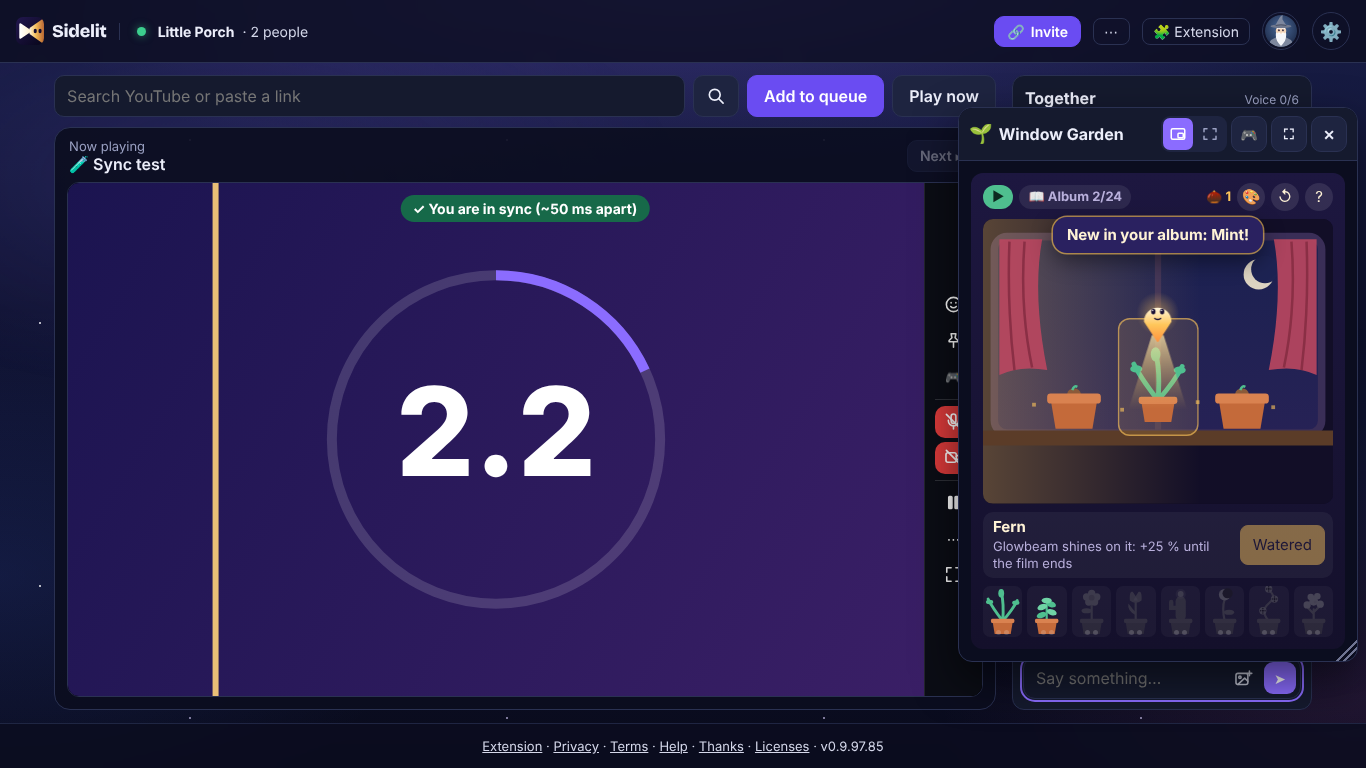
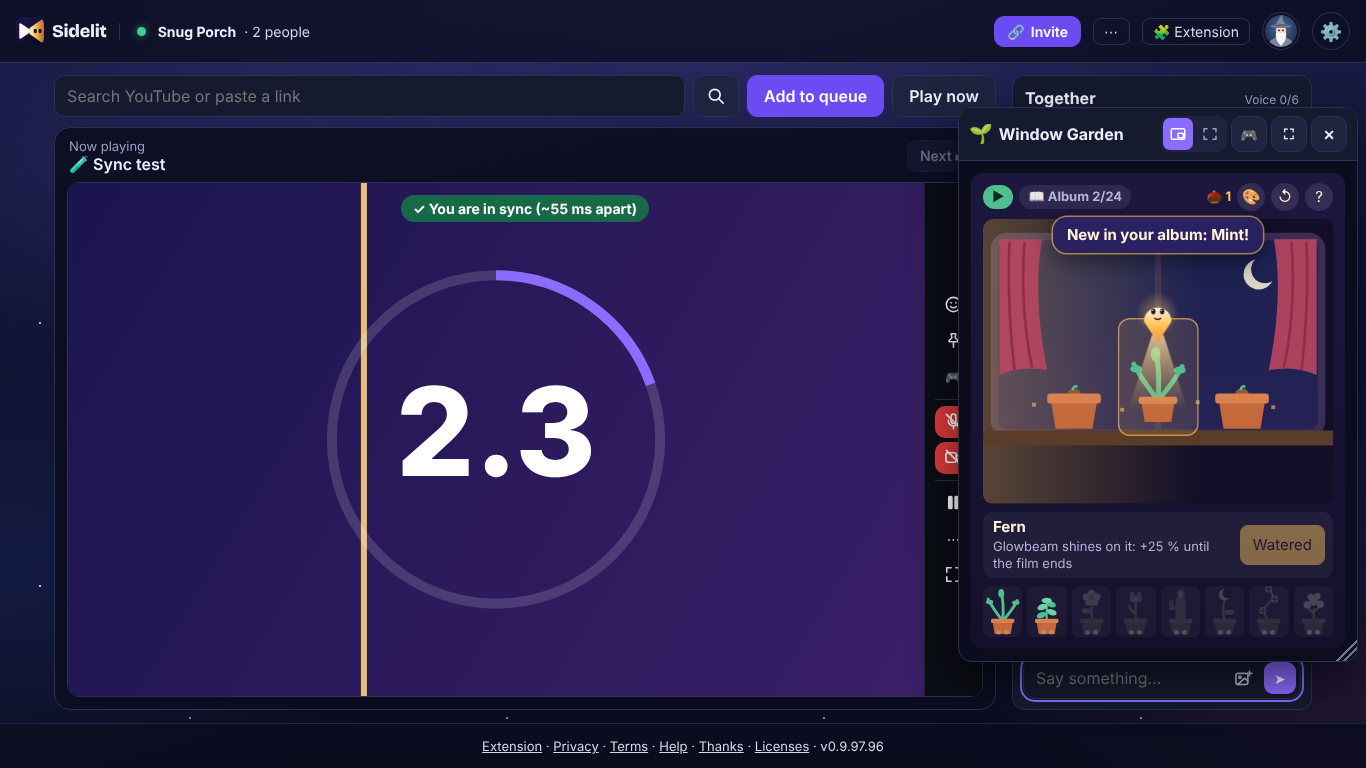
Layout audit: phones always full-screen games, stream preview clear of the player's bar, side games and dialogs grow on big screens (LAYOUT1, 0.9.97.96)
Claude-Session: https://claude.ai/code/session_015Fyri2WkmxwEfieZ1jto4L

diff --git a/apps/web/index.html b/apps/web/index.html
@@ -47,7 +47,7 @@
         <a href="https://github.com/uBlockOrigin/uBOL-home" target="_blank" rel="noopener">uBlock Origin Lite</a>
         <span data-i18n="adblockNote"></span
       ></span>
-      <span class="footer-links"><a href="/extension.html" target="_blank" rel="noopener" data-i18n="extensionNav"></a> · <a href="/privacy.html" target="_blank" rel="noopener" data-i18n="privacy" data-privacy-link></a> · <a href="/terms.html" target="_blank" rel="noopener" data-i18n="terms" data-terms-link></a> · <a href="/help.html" target="_blank" rel="noopener" data-i18n="help" data-help-link></a> · <a href="/thanks.html" target="_blank" rel="noopener" data-i18n="thanks" data-thanks-link></a> · <a href="/third-party-notices.txt" target="_blank" rel="noopener" data-i18n="licenses"></a> · <span class="footer-version">v0.9.97.95</span></span>
+      <span class="footer-links"><a href="/extension.html" target="_blank" rel="noopener" data-i18n="extensionNav"></a> · <a href="/privacy.html" target="_blank" rel="noopener" data-i18n="privacy" data-privacy-link></a> · <a href="/terms.html" target="_blank" rel="noopener" data-i18n="terms" data-terms-link></a> · <a href="/help.html" target="_blank" rel="noopener" data-i18n="help" data-help-link></a> · <a href="/thanks.html" target="_blank" rel="noopener" data-i18n="thanks" data-thanks-link></a> · <a href="/third-party-notices.txt" target="_blank" rel="noopener" data-i18n="licenses"></a> · <span class="footer-version">v0.9.97.96</span></span>
     </footer>
     <script type="module" src="/src/main.ts"></script>
   </body>

diff --git a/apps/web/src/games/stage.ts b/apps/web/src/games/stage.ts
@@ -345,10 +345,14 @@ export function createGameStage(opts: StageOptions) {
     const kind = shownKind() ?? 'xox';
     const [w, h] = sizeOf(kind).size;
     const { low, high } = zoomRange(kind);
-    const saved = Number(load(zoomKey(kind)) || '1');
+    const saved = Number(load(zoomKey(kind)) || '0');
     const room = area();
     const most = Math.min(high, (room.width - 2 * EDGE) / w, (room.height - 2 * EDGE) / h);
-    const wanted = want ?? (Number.isFinite(saved) && saved > 0 ? saved : 1);
+    // Until I size it myself, a window grows with the screen (LAYOUT1, the Planner's B2: the games' own sizes are made
+    // for 1366 × 768, so on a 2560 × 1440 screen a side game was 6 % of it): 1 on a laptop, ≈ 1.4 at 1920 × 1080, the
+    // game's largest size (≈ 1.5) at 2560 × 1440.
+    const screenZoom = Math.max(1, Math.min(innerWidth / 1366, innerHeight / 768));
+    const wanted = want ?? (Number.isFinite(saved) && saved > 0 ? saved : screenZoom);
     return Math.min(most, Math.max(low, wanted));
   }
   let spot = readPair(FLOAT_KEY) ?? { x: 1, y: 0.5 };

diff --git a/apps/web/src/styles.css b/apps/web/src/styles.css
@@ -660,6 +660,20 @@ button.nav-link {
   backdrop-filter: blur(3px);
 }
 
+/* LAYOUT1 (Planner's E): on big screens a dialog grows a little, so a 440 px card is not a toast on a 2560 px screen.
+   Not the settings page (it sizes itself to the window) or the image viewer (the image fills the screen). */
+@media (min-width: 2200px) and (min-height: 1100px) {
+  .dialog-backdrop:not(.settings-backdrop, .image-viewer) > * {
+    zoom: 1.2;
+  }
+}
+
+@media (min-width: 2500px) and (min-height: 1300px) {
+  .dialog-backdrop:not(.settings-backdrop, .image-viewer) > * {
+    zoom: 1.35;
+  }
+}
+
 .avatar-dialog {
   width: min(760px, 100%);
   display: flex;

diff --git a/docs/internal/layout-audit.md b/docs/internal/layout-audit.md
@@ -1,0 +1,159 @@
+# Layout audit (card LAYOUT1, 10 Nov 2026)
+
+Where each window of the room opens on each kind of device, and whether that makes sense. The measurements come from
+`scripts/harness/layout-audit/run.cjs`. It runs a room with a playing video file and a Test Lab friend, then opens every
+window in turn: rail, a chat message, invite, settings, Test Lab, all 5 tables + Classics + Sea Battle + the 3 side games,
+the camera, my screen stream, and the Shorts view. For each window it records:
+
+- the box;
+- the mode (whole screen, the video's place, a free window, a bottom sheet);
+- whether the window is inside the screen, whether the screen cuts off any of its controls, whether it covers the rail,
+  and whether the page scrolls.
+
+Run it again after any layout change:
+
+```bash
+NODE_PATH=$(npm root -g) node scripts/harness/layout-audit/run.cjs http://localhost:8787 http://localhost:5300/video.webm /tmp/la
+```
+
+`DEVICES=` and `STEPS=` narrow a run.
+
+**Devices.** All emulated in Playwright:
+
+| Name | Model and screen |
+| --- | --- |
+| iphone | iPhone 13, 390 × 664 |
+| iphone-side | iPhone 13 sideways, 750 × 342 |
+| pixel | Pixel 7, 412 × 839 |
+| pixel-side | Pixel 7 sideways, 863 × 360 |
+| ipad | iPad 7, 810 × 1080 |
+| ipad-side | iPad 7 sideways, 1080 × 810 |
+| laptop | 1366 × 768 |
+| desktop | 1920 × 1080 |
+| wide | 2560 × 1440 |
+
+## Where things open
+
+"Video" means the video's place. "Free" means a free window: draggable, resizable, and remembered. "Sheet" means a
+bottom sheet. "Full" means the whole screen.
+
+### Phones
+
+| Window | iPhone upright | Pixel upright | iPhone sideways | Pixel sideways |
+| --- | --- | --- | --- | --- |
+| Video | top, 390 × 219 | top, 412 × 232 | left, 508 × 286 | left, 621 × 349 |
+| Room controls | faces strip under the video | same | none: video + "Watch fullscreen" (owner's 8B) | same |
+| Chat message | in the chat panel | same | not shown (8B) | same |
+| Invite | centred card | same | centred card | same |
+| Settings | full page | same | full page | same |
+| Test Lab | sheet, 72 % tall | same | sheet | same |
+| Every table and side game | full | full | full | **free window (fixed: now full)** |
+| Cameras | the camera row under the faces | same | hidden (8B) | same |
+| My stream preview | in the video, **bottom right over the player's bar (fixed: top right, 150 px)** | same | in the video | same |
+| Shorts view | 340 × 604 | 412 × 732 | 192 × 342 | 203 × 360 |
+
+### Tablets
+
+| Window | iPad upright (`tablet-up`) | iPad sideways (computer layout) |
+| --- | --- | --- |
+| Video | 764 × 430 at the top | 703 × 396, rail beside it |
+| Rail | beside the video, 58 px | same |
+| Chat message | the chat column under the video | the side column |
+| Invite / settings | centred dialog / full page dialog | same |
+| Test Lab | sheet, 42 % tall | right drawer, 400 px |
+| Tables | free window over the video and the rail (Planner's A, card T) | free window over the video and the rail |
+| Side games | free window, 380–400 px, over the video | same |
+| Cameras | one window, bottom right | same |
+| My stream preview | in the video | same |
+| Shorts view | 422 × 750 | 433 × 770 |
+
+### Computers
+
+| Window | Laptop 1366 × 768 | Desktop 1920 × 1080 | Wide 2560 × 1440 |
+| --- | --- | --- | --- |
+| Video | 916 × 515 (45 % of the screen) | 1422 × 800 (55 %) | 2062 × 1160 (65 %) |
+| Rail | at the video's right edge, 58 px | same | same |
+| Chat message | the chat panel (side column) | same | same |
+| Invite | centred card, 440 × 342 | same size (7 %) | same size (4 %) |
+| Test Lab | right drawer, 400 px (the page makes room) | same | same |
+| Tables | free window, right side, over the chat column (32–49 % of the screen) | same, 16–25 % | same, 9–14 % |
+| Side games | free window, 400 px, right side, over the chat column | same (11 %) | same (6 %) |
+| Cameras | one window over the chat column's foot (273 × 240) | 384 × 324 | 512 × 420 |
+| My stream preview | in the video, 36 % of its width | same | same |
+| Shorts view | 410 × 728 | 550 × 977 | 619 × 1100 |
+
+No window leaves the screen, and the page never scrolls, on any of the 9 devices.
+
+## Silly things found, and what happened to them
+
+1. **Fixed: a sideways Pixel played games in a free window.** A tall phone held sideways is wider than 860 px (Pixel 7:
+   863 px). So `games/stage.ts` took it for a computer and opened a 217–493 px free window over the 621 px video. A
+   750 px iPhone got the whole screen. Now a phone is always "narrow" (`isPhoneLayout()`), so every game is full screen
+   held either way. Harness: "the whole screen on a phone" for the 4 phone profiles × 8 games.
+   ![](layout-audit/pixel-side-game-before.jpg)
+2. **Fixed: on a phone my own stream preview covered the player's bar.** The preview started in the video's bottom
+   right at 200 px wide, which is 51 % of a 390 px video. It sat on the play button, time and seek line of the video
+   file's own bar. Now it starts in the top right (`live-float.ts` default `y: 0.04`) and is at least 150 px wide on a
+   phone, not 200 px. Harness: "stream: clear of the player's bar" on every device. `voice/live.mjs` now drags it down
+   and left instead of up.
+   ![](layout-audit/iphone-stream-before.jpg) ![](layout-audit/iphone-stream-after.jpg)
+3. **Fixed: 🐞 sat on the Test Lab sheet's rows on a phone.** The button stays where it is, and the open sheet covered
+   the bottom-left rows under it. Now it hides while the sheet is open on a phone; the sheet's ✕ closes it. Harness:
+   "lab: 🐞 hidden while the sheet is open".
+   ![](layout-audit/iphone-lab-before.jpg)
+4. **For Game Studio: a sideways phone cuts off two games.** Both run at full screen, but at 342–360 px tall:
+   - Window Garden: the pots are drawn above the screen's top edge (y −79 to −116). Only their bottom halves show.
+   - Classics: the game shelf's second row of boxes is under the bottom edge, and the shelf does not scroll.
+
+   These are the games' own layouts, so they are listed for Game Studio. The audit harness still reports them, so it
+   fails until they are fixed.
+   ![](layout-audit/iphone-side-garden.jpg) ![](layout-audit/iphone-side-classics.jpg)
+5. **For Game Studio / Design: two look-alike "fullscreen" icons in a game window's head.** The place switch's
+   "in the video's place" icon and the "⛶ fullscreen" button are both four corners, side by side.
+   ![](layout-audit/ipad-table.jpg)
+6. **Noted, not changed: contrast.** See THEME1. The contrast harness found that my own chat bubble in
+   Gece is 3.7:1 (white on `--accent`), which is under AA.
+
+## Choices for the owner (through the Planner)
+
+These are preferences, not bugs. A and C wait for the owner; B, D and E were decided by the Planner:
+
+- **A. Where a free game window opens on a computer.** Today it opens at the right and covers the chat column (laptop:
+  32–49 % of the screen), while the people playing chat about the game.
+  - A1: keep it as it is.
+  - A2: open over the video's left part, so the chat stays readable.
+  - A3: open in the video's place by default (the video goes small), as on an upright tablet.
+
+  ![](layout-audit/laptop-table.jpg)
+- **B. Decided (Planner, 10 Nov): B2, shipped in 0.9.97.96.** A free game window grows with the screen until I resize
+  it: `min(width / 1366, height / 768)` of the game's size, at most its largest size. Before, a side game was 6 % of a
+  2560 × 1440 screen. Card GP's harness now checks the new rule. Layout harness: "grows with the screen".
+  ![](layout-audit/wide-side-game.jpg)
+- **C. Where the camera window starts on a computer.** It starts over the foot of the chat column and covers the message
+  box ("Say something…"). It can be dragged, and the place is remembered.
+  - C1: keep it as it is.
+  - C2: start over the video's bottom-left corner, like Meet's self-view.
+  - C3: start over the chat column but above the message box.
+
+  ![](layout-audit/laptop-camera.jpg)
+- **D. Decided (Planner): keep.** Tables on an upright tablet stay a free window over the video.
+- **E. Decided (Planner): shipped in 0.9.97.96.** Dialogs grow a little on big screens (`zoom` 1.2 from 2200 × 1100,
+  1.35 from 2500 × 1300; not settings or the image viewer). The invite card is 594 px wide on a 2560 screen, 440 px on
+  a laptop. Layout harness: "invite: grows on a big screen".
+
+## What the contrast harness says (THEME1, report only for now)
+
+`scripts/harness/contrast/run.cjs` checks every theme on these pages: home, help, join, room, settings, and the games
+hall. It runs on a laptop for all 10 themes, and on a phone for the 4 plain themes. It compares each text line's colour
+with the real background pixels under it (scene pictures included) against WCAG AA. The first run, on 0.9.97.95, found:
+
+- **Gece:** my own chat bubble is 3.7:1 (white on `#8b6cff`). The games hall tab count is 3.7:1.
+- **Every theme:** the "How it works" peek at the foot of the home screen is between 1.0 and 4.5:1, depending on the
+  theme.
+- **Gemi:** 8 lines fail on home (slogan, sub line, Join with a code, Save the room, Shorts door). The light sky behind
+  the text needs a backdrop.
+- **Lokum, Bin Bir Gece, Tren, Okyanus, Gün Batımı:** 1–3 lines each, all on the home page's scene: the save box, the
+  Shorts door, Questions?
+
+The room, join card, settings and help pass in every theme except the Gece bubble above. The fixes wait for Design's
+`themes-2.md` (card THEME1). Run it with `REPORT_ONLY=1` until then.

diff --git a/docs/internal/architecture/reference.md b/docs/internal/architecture/reference.md
@@ -683,7 +683,7 @@ bullet changed the behaviour. Trust the later bullet (and the code). From `docs/
   fullscreen (4B):** on a phone in landscape the dock is a slim column (52 px + safe area) beside the video, never on it
   (`.player` / `.fs-catcher` end at its edge, so the player's own bar stays free), always visible, only 💬 😀 🎙 📷 and
   exit (🖥 only while someone streams: `data-idle` on `#dock-live`); its windows open left of it (`overflow: visible`).
-  **Step 3 (0.9.92.5):** games (10A): on a phone `games/stage.ts` always uses `full` and sets `html.ph-game` (not in
+  **Step 3 (0.9.92.5):** games (10A): on a phone `games/stage.ts` always uses `full` (also held sideways wider than 860 px: `narrow` counts `isPhoneLayout()`, LAYOUT1); a free window (computers, tablets) starts at `min(width / 1366, height / 768)` of the game's size, at least 1 and at most its largest size, until resized (`floatZoom`, LAYOUT1 B2); dialogs (`.dialog-backdrop > *`, not settings or the image viewer) get `zoom` 1.2 from 2200 × 1100 and 1.35 from 2500 × 1300 (`styles.css`, LAYOUT1 E) and sets `html.ph-game` (not in
   the Shorts view); phone.css shrinks the theater itself (CSS only, the player is never reloaded) to a 92×52 preview
   at the left of the game's head; `::after` over it catches the tap, `phone-room.ts` turns it into the head's
   `.game-minimize`; the strip's `#strip-voice` moves into the head while `ph-game` (only 🎙 shows there) and back
@@ -1270,7 +1270,7 @@ bullet changed the behaviour. Trust the later bullet (and the code). From `docs/
   the screen's frames drive it and a background tab doesn't freeze it; hidden where unsupported); quality changes go
   to the real screen track; the browser's "Stop sharing" ends the composed track too. `LiveKind` 'camera' stays in the
   protocol for old clients. Test: `voice/live.mjs` (19 checks).
-  **0.9.91.15 free stream window (owner: "free like the cameras", `ui/live-float.ts`):** `#live-window` sits in the
+  **0.9.91.15 free stream window (owner: "free like the cameras", `ui/live-float.ts`):** (LAYOUT1: the in-video default is the top right, `y: 0.04`, clear of the player's own bar; at least 150 px wide on a phone, `PHONE_MIN_WIDTH`, 200 elsewhere) `#live-window` sits in the
   video (default) or floats on the page (⧉ / ⤓, `opt:livePlace`; not under 700 px); drag anywhere, corner grip resizes
   (16:9 kept), double click resets; places as shares of the container in `liveSpot:video` / `liveSpot:free` /
   `liveSpot:fs`; in fullscreen (real or `.fake-fs`) it always lives inside the video; ⤢ covers the video (a free window

diff --git a/docs/internal/STATUS.md b/docs/internal/STATUS.md
@@ -388,6 +388,14 @@ where a screen must fit). It found the Thanks page scrolling on a sideways phone
 Saved 31 Oct 2026. Tick items here (or tell Claude the result and it ticks them). The owner talks Turkish; Claude
 explains each step in Turkish when asked. Details and reasons: `browser-support.md`.
 
+**0.9.97.96 (LAYOUT1, layout audit; fold into the next round).** Report: `docs/internal/layout-audit.md`.
+- [ ] L1. Phone held sideways (best a big Android phone): open a game from ⋯ → it fills the whole screen, not a small
+  window over the video.
+- [ ] L2. Phone: share your screen (or watch a friend's stream): the small picture sits top right of the video and the
+  video's own play / time bar under it stays free.
+- [ ] L3. Big monitor (1920 or wider): open Snack Bar from 🎮 → "On the side": the window is bigger than on the laptop and
+  its text easy to read; drag its corner smaller, reload: it keeps your size.
+
 **0.9.97.95 (QUOTA2 + ERR1; fold into the next round).** Only with a network where the room uses its backup connection.
 - [ ] Q5. On your phone hotspot (or with the Test Lab's "Use the backup connection"), stay in a room for 10 minutes: no
   "reconnecting", the video stays in step, chat arrives at once.

diff --git a/CHANGELOG.md b/CHANGELOG.md
@@ -16,6 +16,14 @@ downloaded), and many new games: the Classics table (tic-tac-toe, Four in a Row,
 Reversi) with Glowbeam as a referee and opponent, Sea Battle, a bigger quiz and Draw & Guess with topics, and the side
 games' tip jar, cuttings and badges.
 
+### 0.9.97.96 — 10 Nov
+- Phones: every game fills the whole screen when the phone is held sideways too (on big phones it used to open as a
+  small window over the video).
+- Phones: your own screen-share preview starts small in the top corner of the video, so the video's play and time bar
+  stays free.
+- Big screens: the side games (Snack Bar, Window Garden, Five Frames) open larger on big monitors, and dialogs such as
+  the invite window grow a little on very wide screens.
+
 ### 0.9.97.95 — 9 Nov
 - On networks where the room uses its backup connection (some phone hotspots), each tab now asks the server about half
   as often, and one network can keep up to 12 such connections open across all rooms.
